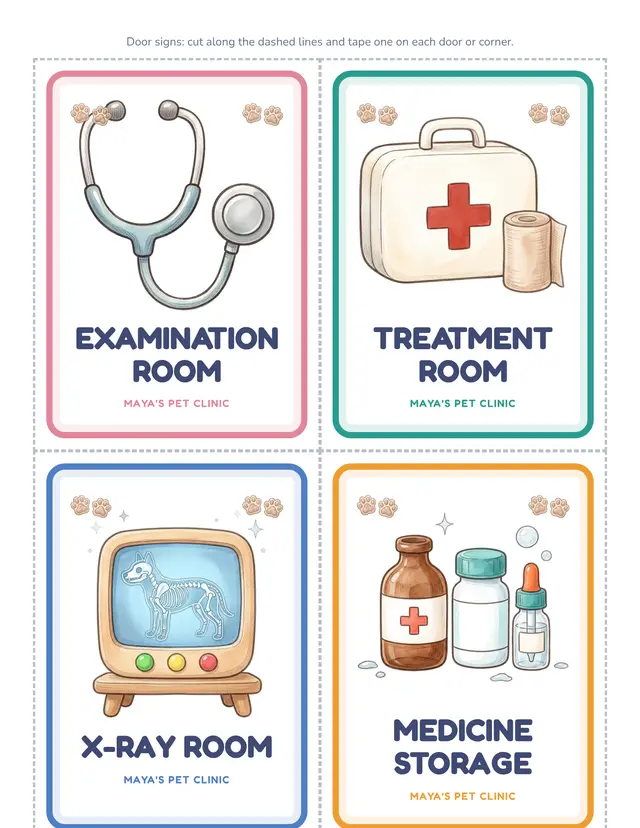
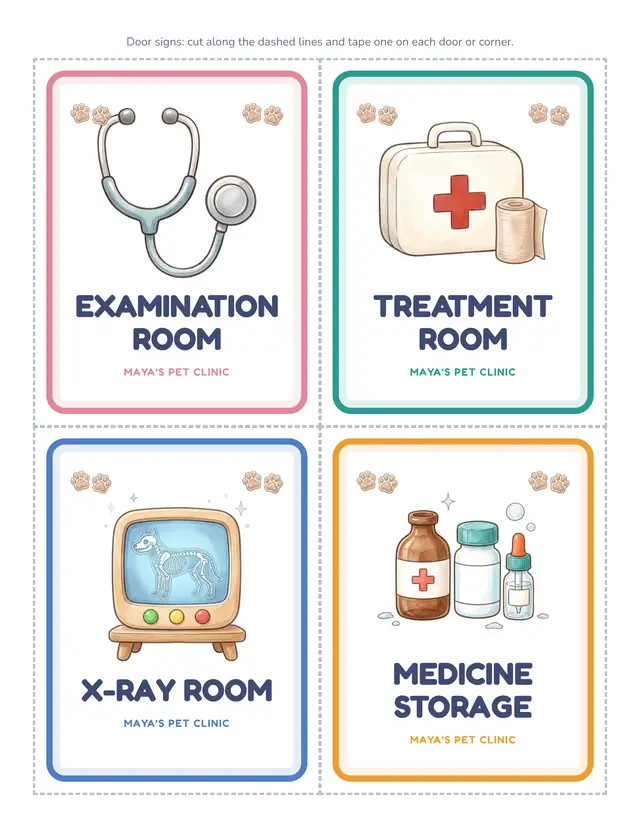
Vet kit round 2: fit fixes, sun and moon, longer jar labels (#188)
- Check-up card pet pictures stay inside their boxes; door signs no longer
  run off the page; the welcome poster awning isn't clipped (every shop kit).
- Open signs show a sun, Closed a plain moon (new face-free art).
- Jar labels are 9.4 inches, printed on their side with food on both ends.
- Deleted the Pet X-Rays page and the clinic picture-card sheet.
- Big sign glue strip is one whole awning stripe, matching the edge that
  covers it, so the pieces line up (every shop kit).
- Gemini Pro prompts for two new X-ray scan sets.

Claude-Session: https://claude.ai/code/session_01MVCCifdUDWfGEXCNaTCuGV

Changed region(s): [[0.0312, 0.1208, 0.9375, 1.0]]

diff --git a/src/kits/clinic.js b/src/kits/clinic.js
@@ -2,7 +2,7 @@
 // by its own key in a kit def, so other kits can copy them once the vet kit is right:
 //   doorSigns    [[title, emoji, color]]  big door signs, four to a page
 //   fileSheet    {...}                    a sheet of picture cards with checklists drawn over it
-//   wrapLabels   [[name, emoji, filler]]  long jar labels with pretend food on the end to cut off
+//   wrapLabels   [[name, emoji, filler]]  long jar labels with pretend food on both ends to trim
 //   bandages     { length, width }        wrap-around bandages for a stuffed animal's leg
 //   tablet       { app, screens }         a clinic tablet, one full-page screen per button
 //   checkup      {...}                    check-up cards sized to fit the file folder
@@ -27,7 +27,7 @@ const kindName = (k, kind) => k.def.kinds[kind][1];
 function doorSign(k, [title, e, color]) {
   return `<div class="ds-cut"><div class="ds" style="--ds:${color}">
     <div class="ds-paws">${art.pic('🐾', '.42in')}${art.pic('🐾', '.42in')}</div>
-    <div class="ds-pic">${art.pic(e, '2.15in')}</div>
+    <div class="ds-pic">${art.pic(e, '1.75in')}</div>
     <div class="ds-title" data-lines="2">${esc(title)}</div>
     <div class="ds-place">${esc(k.placeName)}</div>
   </div></div>`;
@@ -68,21 +68,22 @@ function fileSheetPage(k) {
 
 // ---------- wrap-around jar labels ----------
 
-// 6.75 inches goes round a play jar or bottle about 2 inches across, with a little overlap to tape.
+// 9.4 inches long, printed on its side: the name in the middle and pretend food on both ends, so
+// it goes all the way round a play jar or bottle (Jason, 2026-11-11: the 6.75 inch ones with food
+// on one end didn't reach). Trim the ends to fit.
 function wrapLabel(k, [name, e, filler], i) {
   const f = artFile(k, 'fill', `${filler}.jpg`);
-  const food = fs.existsSync(f) ? `<div class="wl-food" style="background-image:url('${dataUrl(f)}')"></div>` : `<div class="wl-food plain">${Array.from({ length: 12 }, () => art.pic(e, '.5in')).join('')}</div>`;
-  return `<div class="wl s${i % 4}">
-    <div class="wl-name">${art.pic(e, '.72in')}<b data-lines="2">${esc(name)}</b><span class="wl-paws">${art.pic('🐾', '.22in')}${art.pic('🐾', '.22in')}${art.pic('🐾', '.22in')}</span></div>
-    <div class="wl-snip"></div>${food}
-  </div>`;
+  const food = (side) => (fs.existsSync(f) ? `<div class="wl-food ${side}" style="background-image:url('${dataUrl(f)}')"></div>` : `<div class="wl-food plain ${side}">${Array.from({ length: 10 }, () => art.pic(e, '.45in')).join('')}</div>`);
+  return `<div class="wl-slot"><div class="wl s${i % 4}">
+    ${food('l')}<div class="wl-name">${art.pic(e, '.7in')}<b data-lines="2">${esc(name)}</b><span class="wl-paws">${art.pic('🐾', '.2in')}${art.pic('🐾', '.2in')}${art.pic('🐾', '.2in')}</span></div>${food('r')}
+  </div></div>`;
 }
 
 function wrapLabelPages(k) {
   const list = k.def.wrapLabels;
   if (!list) return '';
   return chunk(list, 4).map((four, i) => `<section class="page wl-page">
-    ${head(i ? 'Food and Treat Jar Labels (more)' : 'Food and Treat Jar Labels', 'Cut out a label and wrap it round a play jar or bottle, about 2 inches across, then tape the end. The food on the end makes the jar look full. Filling the jar with pompoms instead? Cut the food off on the dotted line.')}
+    <p class="pg-sub">${i ? 'More food and treat jar labels' : 'Food and treat jar labels'}: cut out a label, wrap it round a play jar or bottle and tape it. Trim the food off either end to fit.</p>
     <div class="wl-list">${four.map((x, j) => wrapLabel(k, x, i * 4 + j)).join('')}</div>
   </section>`).join('');
 }
@@ -227,7 +228,7 @@ const trainingPage = (k) => (k.def.training ? `<section class="page tc-page"><p 
 const clinicCss = `
 /* door signs */
 .ds-page { padding:.35in .4in; display:flex; flex-direction:column; } .ds-page .pg-sub { margin:0 0 .12in; }
-.ds-grid { flex:1; display:grid; grid-template-columns:1fr 1fr; grid-template-rows:1fr 1fr; }
+.ds-grid { flex:1; min-height:0; display:grid; grid-template-columns:1fr 1fr; grid-template-rows:minmax(0,1fr) minmax(0,1fr); }
 .ds-cut { border:1.5px dashed #b7c0cc; margin:-.75px; padding:.14in; display:flex; }
 .ds { flex:1; border:6px solid var(--ds); border-radius:24px; background:#fff; position:relative; display:flex; flex-direction:column; align-items:center; justify-content:center; gap:.14in; padding:.3in .25in; text-align:center; box-shadow:inset 0 0 0 .1in color-mix(in srgb, var(--ds) 14%, #fff); }
 .ds-paws { position:absolute; top:.22in; left:.24in; right:.24in; display:flex; justify-content:space-between; opacity:.85; }
@@ -247,15 +248,15 @@ const clinicCss = `
 .fs-xray { border-radius:8px; display:flex; flex-direction:column; justify-content:center; gap:.03in; padding:.02in .1in; font:600 8.5pt 'Fredoka'; color:var(--navy); }
 .fs-xray div { display:flex; align-items:center; gap:.06in; } .fs-xray .box { width:.14in; height:.14in; border-width:1.5px; }
 /* wrap-around jar labels */
-.wl-page { padding:.4in .5in; display:flex; flex-direction:column; } .wl-page .pg-sub { margin-bottom:.15in; }
-.wl-list { display:flex; flex-direction:column; align-items:center; gap:.22in; }
-.wl { width:6.75in; height:2.1in; display:flex; outline:2px dashed #b7c0cc; outline-offset:2px; border-radius:6px; overflow:hidden; flex:none; }
-.wl-name { width:2.6in; flex:none; display:flex; flex-direction:column; align-items:center; justify-content:center; gap:.03in; background:#fff; border:5px solid var(--wl); border-right:0; border-radius:6px 0 0 6px; padding:.06in; text-align:center; }
-.wl-name b { font:700 18pt/1 'Fredoka'; color:var(--wl); text-transform:uppercase; width:100%; }
+.wl-page { padding:.35in .4in; display:flex; flex-direction:column; } .wl-page .pg-sub { margin:0 0 .15in; }
+.wl-list { flex:1; display:flex; justify-content:space-around; align-items:center; }
+.wl-slot { width:1.7in; height:9.4in; position:relative; flex:none; }
+.wl { position:absolute; left:50%; top:50%; width:9.4in; height:1.7in; transform:translate(-50%, -50%) rotate(-90deg); display:flex; outline:2px dashed #b7c0cc; outline-offset:2px; border-radius:6px; overflow:hidden; }
+.wl-name { width:2.7in; flex:none; display:flex; flex-direction:column; align-items:center; justify-content:center; gap:.03in; background:#fff; border-top:5px solid var(--wl); border-bottom:5px solid var(--wl); padding:.06in .1in; text-align:center; }
+.wl-name b { font:700 17pt/1 'Fredoka'; color:var(--wl); text-transform:uppercase; width:100%; }
 .wl-paws { display:flex; gap:.08in; opacity:.8; }
-.wl-snip { width:0; border-left:2.5px dotted #6d7792; flex:none; position:relative; }
-.wl-snip::before { content:'✂'; position:absolute; top:-.04in; left:-.1in; font-size:13pt; color:#6d7792; background:#fff; line-height:1; }
-.wl-food { flex:1; background-size:cover; background-position:center; border:5px solid var(--wl); border-left:0; border-radius:0 6px 6px 0; }
+.wl-food { flex:1; background-size:auto 100%; background-position:center; border:5px solid var(--wl); }
+.wl-food.l { border-right:0; border-radius:6px 0 0 6px; } .wl-food.r { border-left:0; border-radius:0 6px 6px 0; }
 .wl-food.plain { display:flex; flex-wrap:wrap; align-content:center; justify-content:center; gap:.05in; background:#fff; }
 .wl.s0 { --wl:#2a9d8f; } .wl.s1 { --wl:#e2879b; } .wl.s2 { --wl:#4f7fc4; } .wl.s3 { --wl:#9b7fd1; }
 /* bandages */
@@ -310,6 +311,7 @@ const clinicCss = `
 .fc-cols { flex:1; display:flex; gap:.2in; min-height:0; }
 .fc-left { width:2.5in; flex:none; display:flex; flex-direction:column; } .fc-left .field { margin:.03in 0; font-size:10pt; } .fc-left .fill { font-size:11pt; min-width:.6in; }
 .fc-photo { height:1.45in; border:2.5px solid var(--mint); border-radius:14px; display:grid; place-items:center; background:var(--mint-l); margin-bottom:.04in; } .fc-photo.empty { background:#fff; border-style:dashed; }
+.fc-photo { overflow:hidden; } .fc-photo .pic { max-width:1.3in; max-height:1.3in; }
 .fc-right { flex:1; display:flex; flex-direction:column; gap:.05in; min-width:0; }
 .fc-q { font:700 10pt 'Fredoka'; color:var(--teal-d); }
 .fc-svc { display:grid; grid-template-columns:1fr 1fr; gap:.04in .1in; } .fc-svc span { display:flex; align-items:center; gap:.06in; font:600 10.5pt 'Fredoka'; } .fc-svc .box { width:.18in; height:.18in; }

diff --git a/src/kits/defs/vet.js b/src/kits/defs/vet.js
@@ -5,7 +5,7 @@ module.exports = {
   hunt: 'vet',
   bigSign: true, // a shop-style kit: it keeps the big shop sign (missed when the sign came in on 2026-10-18)
   signs: [
-    ['Open', 'Come on in! The vet will see you soon.', '✅', 'go'],
+    ['Open', 'Come on in! The vet will see you soon.', '☀', 'go'],
     ['Closed', 'The vets are resting. Please come back later!', '🌙', 'stop'],
     ['Waiting Room', 'Please sit quietly with your pet', '🪑'],
     ['Exam Room', 'Check-ups this way', '🩺'],
@@ -63,7 +63,7 @@ module.exports = {
   // Manila file folders for patient charts, intake forms and records (src/kits/rooms.js).
   folders: {
     title: 'Patient File Folders', label: 'PET RECORDS', tab: 'Patient', stamp: 'CONFIDENTIAL', wristbands: true,
-    inside: [['📝', 'New pet form'], ['🩺', 'Check-up'], ['🐾', 'Visit checklist'], ['🦴', 'X-rays']],
+    inside: [['📝', 'New pet form'], ['🩺', 'Check-up'], ['🦴', 'X-rays']],
     count: 1, // one folder: print it again for more pets
     tags: ['X-RAYS', 'VACCINES', 'ALLERGIES', 'GROOMING'], stamps: ['URGENT', 'ALL BETTER', 'GOOD PET!', 'FOLLOW UP'],
     intake: {
@@ -77,8 +77,7 @@ module.exports = {
   },
   // Flat props to cut out and play with (see propsPages in engine.js).
   props: {
-    scans: { title: 'Pet X-Rays', label: 'X-RAY', howTo: 'Cut out the X-rays. Hold one up to the window to “read” it, then tick what the vet found.',
-      findings: ['Swallowed a sock', 'Sore paw', 'Tummy full of treats', 'Wobbly tooth', 'Bent whisker', 'Ate a toy car'] },
+    // The Pet X-Rays page (teddy, bunny, dog, cat, hamster, bird) went in the 2026-11-11 review.
     patches: { title: 'Brave Patient Stickers', howTo: 'Cut out and tape one on every brave patient.',
       items: [['🏅', 'Brave patient'], ['⭐', 'Super pet'], ['💖', 'Get well soon'], ['🐾', 'Good boy'], ['🐾', 'Good girl'], ['🌈', 'All better'], ['🦷', 'Clean teeth'], ['💉', 'I had my vaccine'], ['😊', 'Happy & healthy']] },
   },
@@ -122,6 +121,7 @@ module.exports = {
   signFold: true, // the big Open and Closed signs share a page, one upside down, to fold and flip
   cleanCuts: true, // no instructions inside the cut lines (badges, hours sign, file folder)
   skip: ['ticket', 'passport', 'specials', 'atm', 'morning'],
+  counterIcons: { OPEN: '☀' },
   counterSkip: ['PAY HERE', 'COME AGAIN!'],
   stations: [['Check-In Desk', '📋'], ['Pet Grooming', '🛁'], ['Pet Food', '🥣'], ['Recovery Room', '🛏']],
   binLabels: [['🧰', 'Check-Up Tools'], ['🩹', 'Bandages & Tape'], ['🌡', 'Pet Thermometers'], ['🩺', 'Stethoscopes'], ['🦴', 'X-Rays'], ['⛑', 'First Aid'],
@@ -130,18 +130,9 @@ module.exports = {
   // Door signs, four to a page (clinic.js), bigger than the twelve on Jason's wife's sheet.
   doorSigns: [['Examination Room', '🩺', '#e2879b'], ['Treatment Room', '⛑', '#2a9d8f'], ['X-Ray Room', '🩻', '#4f7fc4'], ['Medicine Storage', '🧪', '#ef9d31'],
     ['Cleaning Supplies', '🧽', '#e9b949'], ['Check-In Desk', '📋', '#5bb4a6'], ['Recovery Kennel', '🛌', '#9b7fd1'], ['Adoption Agency', '💞', '#e2879b']],
-  // Jason's wife's sheet of clinic cards (src/kits/art/vet/sheets/clinic-cards.jpg), with the Vet
-  // Services and For Animals Only cards turned into visit checklists for the pet's file, and a
-  // checklist on each little X-ray card. Boxes are in the picture's pixels: [x, y, w, h].
-  fileSheet: {
-    file: 'clinic-cards.jpg', size: [1024, 1536],
-    title: 'Today’s Visit', checklist: [['🩺', 'Examination'], ['💈', 'Grooming'], ['🦴', 'X-ray'], ['💉', 'Vaccine'], ['🎾', 'Training'], ['🦷', 'Teeth clean'], ['🧪', 'Medicine']],
-    visits: [[20, 594, 296, 506, '#e8879c'], [707, 592, 294, 508, '#e8879c']],
-    xrays: [[20, 1410, 218, 113, '#2f9e8f'], [272, 1410, 218, 113, '#2f9e8f'], [526, 1410, 218, 113, '#e8879c'], [782, 1410, 218, 113, '#4f7fc4']],
-    xrayChecks: ['Healthy bones', 'Needs a bandage', 'Come back soon'],
-  },
-  // Long, narrow labels that wrap round a play jar, with pretend food on the end: cut it off if the
-  // jar gets real pompoms instead (clinic.js). Fillers are src/kits/art/vet/fill/<name>.jpg.
+  // The sheet of clinic picture cards with visit checklists (fileSheet) went in the 2026-11-11 review.
+  // Long, narrow labels that wrap round a play jar, with pretend food on both ends to trim to fit
+  // (clinic.js). Fillers are src/kits/art/vet/fill/<name>.jpg.
   wrapLabels: [['Yummy Kibble', '🥣', 'kibble'], ['Tasty Treats', '🦴', 'bones'], ['Fishy Nibbles', '🐟', 'fish'], ['Kitty Kibble', '🐱', 'catkibble'],
     ['Chewy Bites', '🥩', 'chews'], ['Healthy Veggies', '🥕', 'veggies'], ['Seed Mix', '🐦', 'seeds'], ['Turtle Pellets', '🐢', 'pellets']],
   // Wrap-around bandages, sized to go round a stuffed animal's leg or paw with room to tape.

diff --git a/src/kits/extras.js b/src/kits/extras.js
@@ -26,8 +26,12 @@ const chunk = (list, n) => Array.from({ length: Math.ceil(list.length / n) }, (_
 function bigSignPages(k) {
   const d = k.def;
   const trio = (d.shop && d.shop.hero) || [d.menu.items[0][0], d.icon, d.menu.items[1][0]];
-  const W = 1520; const H = 430; const lap = 40;
+  const W = 1520; const H = 430;
   const stripes = 24; const sw = W / stripes;
+  // The glue strip is exactly one awning stripe, printed with the same stripe as the edge of the
+  // piece that covers it, so a cut a little off still lines up (Jason, 2026-11-11: the flags didn't
+  // meet with a narrower, washed-out strip).
+  const lap = sw;
   const awn = Array.from({ length: stripes }, (_, i) => `<path d="M${i * sw},0 L${(i + 1) * sw},0 L${(i + 1) * sw},56 A${sw / 2},${sw / 2.4} 0 0 1 ${i * sw},56 Z" fill="${i % 2 ? '#fff' : 'var(--teal-d)'}" stroke="var(--teal-d)" stroke-width="2"/>`).join('');
   const art = `<rect x="0" y="0" width="${W}" height="${H}" rx="28" fill="var(--teal)"/>${awn}
     <rect x="22" y="92" width="${W - 44}" height="${H - 114}" rx="22" fill="none" stroke="#fff" stroke-width="5" stroke-dasharray="2 14" stroke-linecap="round"/>
@@ -41,7 +45,7 @@ function bigSignPages(k) {
   const inch = 9.9 / (W / 2 + lap);
   const seam = W / 2;
   // On page 2: a dark line where page 1's edge goes, with arrows at the top and bottom.
-  const marks = `<rect x="${seam - lap}" y="0" width="${lap}" height="${H}" fill="#fff" opacity=".55"/>
+  const marks = `<rect x="${seam - lap}" y="92" width="${lap}" height="${H - 92}" fill="#fff" opacity=".35"/>
     <line x1="${seam}" y1="0" x2="${seam}" y2="${H}" stroke="var(--navy)" stroke-width="3" stroke-dasharray="10 6"/>
     <path d="M${seam - 14},0 L${seam},16 L${seam - 14},32 Z M${seam - 14},${H} L${seam},${H - 16} L${seam - 14},${H - 32} Z" fill="var(--navy)"/>
     <text x="${seam - lap / 2}" y="${H / 2}" class="bs-glue" text-anchor="middle" transform="rotate(-90 ${seam - lap / 2} ${H / 2})">GLUE UNDER</text>`;

diff --git a/docs/js/data.js b/docs/js/data.js
@@ -162,7 +162,7 @@ const LAYERS = [
 const PRICES = { hunt: 9.99, kit: 7.99, party: 4.99, 'hunt+kit': 14.99, 'hunt+party': 12.99, 'kit+party': 11.99, bundle: 15.99, activity: 6.99, activityAdd: 4 };
 // Real page counts from scripts/page-counts.js (re-run it after adding pages). A hunt is 7 pages plus
 // one sheet per two clue cards, so it follows the spots picked.
-const PAGES = {"kit":{"dino":44,"hero":44,"pirate":44,"space":44,"royal":44,"unicorn":45,"mermaid":45,"construction":45,"vet":48,"easter":47,"halloween":46,"christmas":44,"valentine":44,"fire":42,"ice":45,"racecar":45,"pizza":54,"burger":47,"grocery":48,"post":49,"library":48,"police":47,"dentist":51,"petshop":47,"coffee":48,"italian":54,"auto":47,"kitchen":57,"doctor":51,"puppet":50,"agent":54,"dressup":49,"icecream":51,"airport":49},"activity":{"big":19,"little":20},"party":15,"craft":{"halloween":20,"christmas":20,"memory":29,"zoo":28,"fingerprint":28}};
+const PAGES = {"kit":{"dino":44,"hero":44,"pirate":44,"space":44,"royal":44,"unicorn":45,"mermaid":45,"construction":45,"vet":46,"easter":47,"halloween":46,"christmas":44,"valentine":44,"fire":42,"ice":45,"racecar":45,"pizza":54,"burger":47,"grocery":48,"post":49,"library":48,"police":47,"dentist":51,"petshop":47,"coffee":48,"italian":54,"auto":47,"kitchen":57,"doctor":51,"puppet":50,"agent":54,"dressup":49,"icecream":51,"airport":49},"activity":{"big":19,"little":20},"party":15,"craft":{"halloween":20,"christmas":20,"memory":29,"zoo":28,"fingerprint":28}};
 function pagesOf(k, theme, spots = 6, ages = 'big') {
   return { hunt: 7 + Math.ceil(Math.min(10, Math.max(6, spots)) / 2), kit: PAGES.kit[theme], activity: PAGES.activity[ages] + (typeof ORIGAMI !== 'undefined' && ORIGAMI[theme] ? 2 : 0), party: PAGES.party }[k] || 0;
 }

diff --git a/src/kits/shop.js b/src/kits/shop.js
@@ -18,7 +18,7 @@ function welcomePage(k) {
   const trio = S.hero || [d.menu.items[0][0], d.icon, d.menu.items[1][0]];
   return `<section class="page shop-page poster">
     ${bg(3, [120, 120, 576, 820])}
-    <svg class="awning" viewBox="0 0 ${W} 80">${awning(W, 12)}</svg>
+    <svg class="awning" viewBox="0 0 ${W} 92">${awning(W, 12)}</svg>
     <div class="poster-in">
       <div class="kicker">Welcome to</div>
       ${who ? `<div class="script p-who" data-lines="1">${esc(who)}</div>` : ''}
@@ -151,7 +151,8 @@ svg.pic { display:inline-block; vertical-align:middle; flex:none; }
 .shop-bg { position:absolute; inset:0; width:100%; height:100%; z-index:0; }
 .shop-page > *:not(.shop-bg) { position:relative; z-index:1; }
 .poster { padding:0; }
-.awning { position:absolute !important; top:0; left:0; width:100%; }
+/* Below the printer's top margin, and tall enough for the scallops (68 wide, 28 deep). */
+.awning { position:absolute !important; top:.2in; left:0; width:100%; }
 .poster-in { position:absolute !important; inset:1.2in .6in .55in; display:flex; flex-direction:column; align-items:center; text-align:center; border:5px solid var(--teal); border-radius:36px; background:rgba(255,255,255,.82); padding:.35in .3in .3in; outline:3px solid var(--mint); outline-offset:7px; }
 .kicker { font:700 20pt 'Fredoka'; letter-spacing:.18em; text-transform:uppercase; color:var(--teal); }
 .p-who { font-size:40pt; color:var(--teal-d); margin-top:.1in; }

diff --git a/src/kits/engine.js b/src/kits/engine.js
@@ -285,7 +285,7 @@ function guidePage(k) {
     ...(extras.hasWow(k) ? [d.wow.inside] : []),
     ...bigLine(k),
     ...(d.jars ? [`${d.jars.length} wrap-around jar labels`] : []),
-    ...(d.wrapLabels ? [`${d.wrapLabels.length} long wrap-around food and treat jar labels with pretend food to cut off`] : []),
+    ...(d.wrapLabels ? [`${d.wrapLabels.length} long wrap-around food and treat jar labels with pretend food on both ends`] : []),
     ...(d.bandages ? [`${d.bandages.length} inch wrap-around pretend bandages`] : []),
     ...(d.tablet ? [`A clinic tablet with ${d.tablet.screens.length} screens`] : d.toys ? d.toys.map((t) => t.inside) : [`${['laptop', 'console'].includes(d.dashboard.device) ? 'A fold-up' : 'A cut-out'} ${d.dashboard.gadget} with 3 screens`]),
     '8 ID badges',

diff --git a/src/kits/signage.js b/src/kits/signage.js
@@ -91,6 +91,7 @@ const COUNTER = [
 ];
 
 function counterCard([lead, word, icon, cls = ''], k) {
+  icon = (k.def.counterIcons || {})[word] || icon; // the vet's Open sign is a sun (2026-11-11)
   return `<div class="ct-card ${cls}"><div class="ct-in">
     <div class="ct-pic">${art.pic(icon, '1.1in')}</div>
     <div class="ct-lead">${esc(lead)}</div>

diff --git a/docs/handprint-art/index.html b/docs/handprint-art/index.html
@@ -78,7 +78,7 @@
   </div>
 </footer>
 <script src="js/names.js?v=e3031f47"></script>
-<script src="js/data.js?v=599b8f62"></script>
+<script src="js/data.js?v=d30cee89"></script>
 <script src="js/site.js?v=3dd597c5"></script>
 <script>
 // Handprint art packs are ordered on their own: tapping one opens its pages with a buy form under them.

diff --git a/docs/play-kits/index.html b/docs/play-kits/index.html
@@ -84,7 +84,7 @@
   </div>
 </footer>
 <script src="js/names.js?v=e3031f47"></script>
-<script src="js/data.js?v=599b8f62"></script>
+<script src="js/data.js?v=d30cee89"></script>
 <script src="js/site.js?v=3dd597c5"></script>
 <script>
 // Tapping a shop kit opens its pages (both age versions and the box build) with a buy form under them.

diff --git a/docs/activity-pages/index.html b/docs/activity-pages/index.html
@@ -99,7 +99,7 @@
   </div>
 </footer>
 <script src="js/names.js?v=e3031f47"></script>
-<script src="js/data.js?v=599b8f62"></script>
+<script src="js/data.js?v=d30cee89"></script>
 <script src="js/site.js?v=3dd597c5"></script>
 <script>
 // Theme tiles open that theme's activity pages (both age versions); the button orders just the pack.

diff --git a/docs/index.html b/docs/index.html
@@ -302,7 +302,7 @@
   </div>
 </footer>
 <script src="js/names.js?v=e3031f47"></script>
-<script src="js/data.js?v=599b8f62"></script>
+<script src="js/data.js?v=d30cee89"></script>
 <script src="js/site.js?v=3dd597c5"></script>
 <script src="js/home.js?v=ff25b245"></script>
 </body>

diff --git a/docs/make/index.html b/docs/make/index.html
@@ -158,7 +158,7 @@
   </div>
 </footer>
 <script src="js/names.js?v=e3031f47"></script>
-<script src="js/data.js?v=599b8f62"></script>
+<script src="js/data.js?v=d30cee89"></script>
 <script src="js/site.js?v=3dd597c5"></script>
 <script src="js/make.js?v=589461f0"></script>
 </body>
